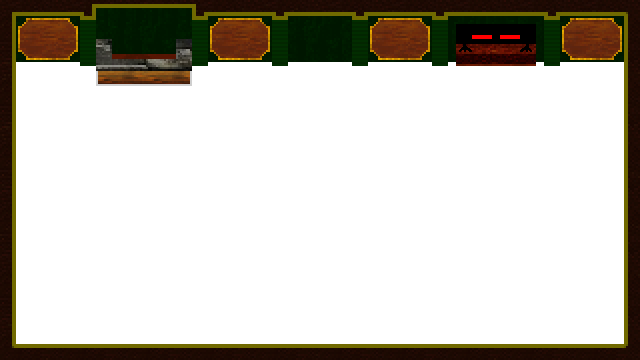
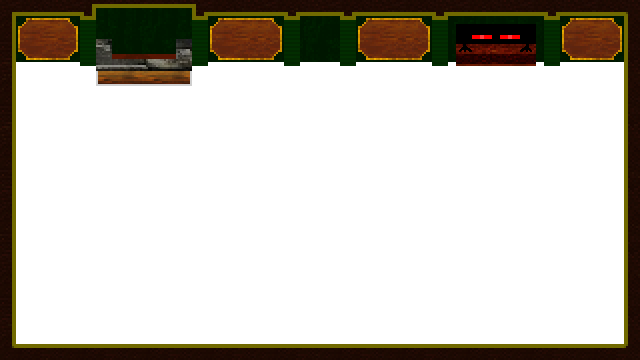
Lobby UI
- expanded inner wall panels
- reduced space around slot machine
- added display for money
- added display for room code

Changed region(s): [[0.5312, 0.0306, 0.5938, 0.1833], [0.4062, 0.0306, 0.4688, 0.1833]]

diff --git a/script.js b/script.js
@@ -8,6 +8,23 @@ sh = sw / factor[0] > sh / factor[1] ? sh : (sw / factor[0]) * factor[1];
 
 // DISABLE CONTExT MENU
 document.addEventListener("contextmenu", event => event.preventDefault());
+// DISABLE CONSOLE
+/*
+(function () {
+  try {
+    const originalConsole = console;
+    Object.defineProperty(window, 'console', {
+      get: function () {
+        throw new Error('Console is disabled for security reasons.');
+      },
+      set: function (val) {
+        console = val;
+      }
+    });
+  } catch (e) {}
+})();
+*/
+
 
 const container = document.getElementById('container');
 const storage = document.getElementById('sceneStorage');
@@ -430,6 +447,17 @@ function lobbyScene(sock) {
 			ctx.fillRect(game.players[i].col.origin.x - charScaleFact, game.players[i].col.origin.y + 13*charScaleFact, 10*charScaleFact, 3*charScaleFact)
 		}
 		ctx.drawImage(background.imgs.lobby.wall,0,0,640,360); //draw walls
+		ctx.fillStyle = "white";
+		ctx.font = "7px pixel";
+		ctx.fillText("Money", 246-15, 32);
+		ctx.fillText("Room Code", 394-26, 32);
+		ctx.font = "14px pixel";
+		let t = ctx.measureText(roomNo);
+		ctx.fillText(roomNo, 394-0.5*t.width, 42+0.5*t.actualBoundingBoxAscent);
+		let tx = `$${game.players.find(x => x.pName == playerName).money}`;
+		if (tx.length > 5) ctx.font = "7px pixel";
+		t = ctx.measureText(tx);
+		ctx.fillText(tx, 246-0.5*t.width, 42+0.5*t.actualBoundingBoxAscent);
 		
 		//get interactable if any
 		currentInteractable = null;
@@ -610,50 +638,52 @@ function selectionScene(sock){
 	
 	function servMsg(message){
 		let resp = message.data.split("\x1F");
-		if (resp[0] == "r"){
-			temp = JSON.parse(resp[1]);
-			temp.players.forEach((x) => {x.col.origin.x = parseInt(x.col.origin.x); x.col.origin.y = parseInt(x.col.origin.y)});
-			game = temp;
-			return;
-		} else if (resp[0] == "a"){
-			if (resp[1] == "rl"){
-				if (parseInt(resp[2])+1){
-					(async () => {
-							let wheelCont = document.createElement("div");
-							wheelCont.id = "wheelCont";
-							let wheel = document.createElement("img");
-							wheel.src = "./sprites/wheel.png";
-							let ball = document.createElement("img");
-							ball.src = "./sprites/ball.png";
-							wheel.className = ball.className = "wheelImg";
-							ball.style.height = ball.style.width = wheel.style.width = wheel.style.height = canv.style.height;
-							ball.style.transform = wheel.style.transform = wheelCont.style.transform = "rotate(0deg)";
-							
-							container.appendChild(wheelCont);
-							wheelCont.appendChild(wheel);
-							wheelCont.appendChild(ball);
-							
-						await new Promise(resolve => setTimeout(resolve, 1000));
-						wheelCont.style.transition = ball.style.transition = "ease 10s"
+		
+		switch (resp[0]){
+			case 'r':
+				temp = JSON.parse(resp[1]);
+				temp.players.forEach((x) => {x.col.origin.x = parseInt(x.col.origin.x); x.col.origin.y = parseInt(x.col.origin.y)});
+				game = temp;
+				break;
+			case 'a':
+				if (resp[1] == "rl"){
+					if (parseInt(resp[2])+1){
+						(async () => {
+								let wheelCont = document.createElement("div");
+								wheelCont.id = "wheelCont";
+								let wheel = document.createElement("img");
+								wheel.src = "./sprites/wheel.png";
+								let ball = document.createElement("img");
+								ball.src = "./sprites/ball.png";
+								wheel.className = ball.className = "wheelImg";
+								ball.style.height = ball.style.width = wheel.style.width = wheel.style.height = canv.style.height;
+								ball.style.transform = wheel.style.transform = wheelCont.style.transform = "rotate(0deg)";
+								
+								container.appendChild(wheelCont);
+								wheelCont.appendChild(wheel);
+								wheelCont.appendChild(ball);
+								
+							await new Promise(resolve => setTimeout(resolve, 1000));
+							wheelCont.style.transition = ball.style.transition = "ease 10s"
 
-						
-						let finalAngle = 3600 + 360*Math.random();
-						wheelCont.style.transform = `rotate(-${finalAngle}deg)`;
-						ball.style.transform = `rotate(${finalAngle}deg)`;
+							
+							let finalAngle = 3600 + 360*Math.random();
+							wheelCont.style.transform = `rotate(-${finalAngle}deg)`;
+							ball.style.transform = `rotate(${finalAngle}deg)`;
 
-						await new Promise(resolve => setTimeout(resolve, 1000));
-						ball.style.transition = "ease-in-out 5s";
-						ball.style.transform = `rotate(${7200 + (360 * parseInt(resp[2])/37)}deg)`;
-					})();
-					let chId = setInterval(() => {
-						if (game.turnOptions != "spinning" || game.currentScene != "roulette" || sock == null || sock.readyState == WebSocket.CLOSED){
-							wheelCont.remove();
-							clearInterval(chId);
-						}					
-					}, 100);
-					return;
-					return;	
-				}
+							await new Promise(resolve => setTimeout(resolve, 1000));
+							ball.style.transition = "ease-in-out 5s";
+							ball.style.transform = `rotate(${7200 + (360 * parseInt(resp[2])/37)}deg)`;
+						})();
+						let chId = setInterval(() => {
+							if (game.turnOptions != "spinning" || game.currentScene != "roulette" || sock == null || sock.readyState == WebSocket.CLOSED){
+								wheelCont.remove();
+								clearInterval(chId);
+							}					
+						}, 100);
+						break;
+					}
+				break;
 			}
 		} 
 	}
@@ -1430,9 +1460,88 @@ function rouletteScene(sock){
 }
 scene.roulette = rouletteScene;
 
-
-/*
-spin = async (r1, r2, t1, t2) => {
-    
-} 
-*/
+function pokerScene(sock){
+	
+	let pixelLength = 0;
+	function mainloop(){
+		if (sock == null || sock.readyState == WebSocket.CLOSED){
+			try{
+				return;
+			} finally {
+				changeScene("selection", null);
+			}
+		}
+		
+		sock.send(`r\x1F${roomNo}`);
+		
+		if (game.currentScene != "roulette"){
+			changeScene(game.currentScene, sock);
+		}
+		
+		let pOffset = 576 / game.players.length;
+		ctx.clearRect(0,0,ctx.canvas.width,ctx.canvas.height);
+		ctx.drawImage(background.imgs.generic, 0, 0);
+		
+		ctx.font = "21px pixel";
+		let text = `Round ${game.remRounds} of ${game.maxRounds}`;
+		let l = ctx.measureText(text).width;
+		l = Math.round(0.5*l);
+		ctx.fillStyle = "rgba(22,22,29, 0.9)";
+		ctx.fillRect(318 - l,4, 2*l + 4, 28);
+		ctx.fillStyle = "white";
+		ctx.fillText(text, 320 - l, 28);	
+		
+		for (let i = 0; i < game.players.length; i++){
+			let p = game.players[i];
+			let curOff = 32 + (pOffset * 0.5) + (pOffset*i);
+			ctx.fillStyle = `rgba(255,230,120,0.5)`;
+			ctx.beginPath();
+			ctx.arc(curOff,312, 32,5*Math.PI/6 , Math.PI/6);
+			ctx.fill();
+			ctx.drawImage(cows.imgs[p.skin], 0, 1, 16, 15, curOff - 16, 298, 32,30);
+			
+			text = p.pName + "--$" + p.money.toString();	
+			ctx.font = `7px pixel`;
+			pixelLength = ctx.measureText(text).width;
+			pixelLength += pixelLength%2;
+			ctx.fillStyle = `rgba(0,${255*(p.pName == playerName)},0,0.5)`;
+			ctx.fillRect(curOff - (0.5*pixelLength) - 2, 331, 2 + pixelLength, 10);
+			ctx.fillStyle = 'white';
+			ctx.fillText(text, curOff - (0.5*pixelLength), 340);
+			if (p.bet != 0){
+				pixelLength = ctx.measureText(`$${p.bet}`).width;
+				pixelLength += pixelLength%2;
+				ctx.fillText(`$${p.bet}`, curOff - 0.5*pixelLength, 296);
+			}
+		}
+	}
+	
+	let keys = {
+		"e" : () => {
+			sock.send(`c\x1F${roomNo}\x1Flobby`);
+		}
+	}
+	
+	function keydown(e){
+		if (e.code == "KeyE") keys.e();
+	}
+	function keyup(){
+	
+	}
+	
+	window.addEventListener("keydown", keydown);
+	window.addEventListener("keyup", keyup);
+	let mlId = setInterval(mainloop, 25);
+	
+	function unbindLocal(){
+		audio.clips.jazz.pause(0);
+		storage.appendChild(canv);
+		window.removeEventListener("keydown", keydown);
+		window.removeEventListener("keyup", keyup);
+		clearInterval(mlId);
+	}
+	
+	audio.clips.jazz.play();
+	return unbindLocal;	
+}
+scene.poker = pokerScene;

diff --git a/localServer/server.js b/localServer/server.js
@@ -832,7 +832,7 @@ server.on('connection', (socket) => {
 			if (count == Math.max(2, game.players.length)){
 				console.log(`proceed with ${args[3]}`);
 				for (let v in game.votes) {game.votes[v] = 0;}
-				if (args[3] == "bj" || args[3] == "rl"){
+				if (args[3] != "ff"){
 					let t = kts[args[3]]
 					game.currentScene = t;
 					game.colliders = sceneColliders[t];
@@ -842,15 +842,19 @@ server.on('connection', (socket) => {
 						for (let i in blackjackMemoryTemplate){
 							blackjackMemory[game.id][i] = blackjackMemoryTemplate[i];
 						}
-						console.log(blackjackMemory);
 						blackjackFuncs.start(game);
-						console.log(blackjackMemory);
 					} else if (args[3] == "rl") {
 						game.ready = 0;
 						game.remRounds = 1;
 						game.votes = {};
 						game.turnOptions = "betting";
 						console.log("start roulette");
+					} else if (args[3] == "pk"){
+						game.currentPlayer = game.players[0].pName;
+						game.remRounds = 1;
+						game.votes = {};
+						game.turnOptions = "bet";
+						console.log("start poker");
 					}
 				}
 			}
